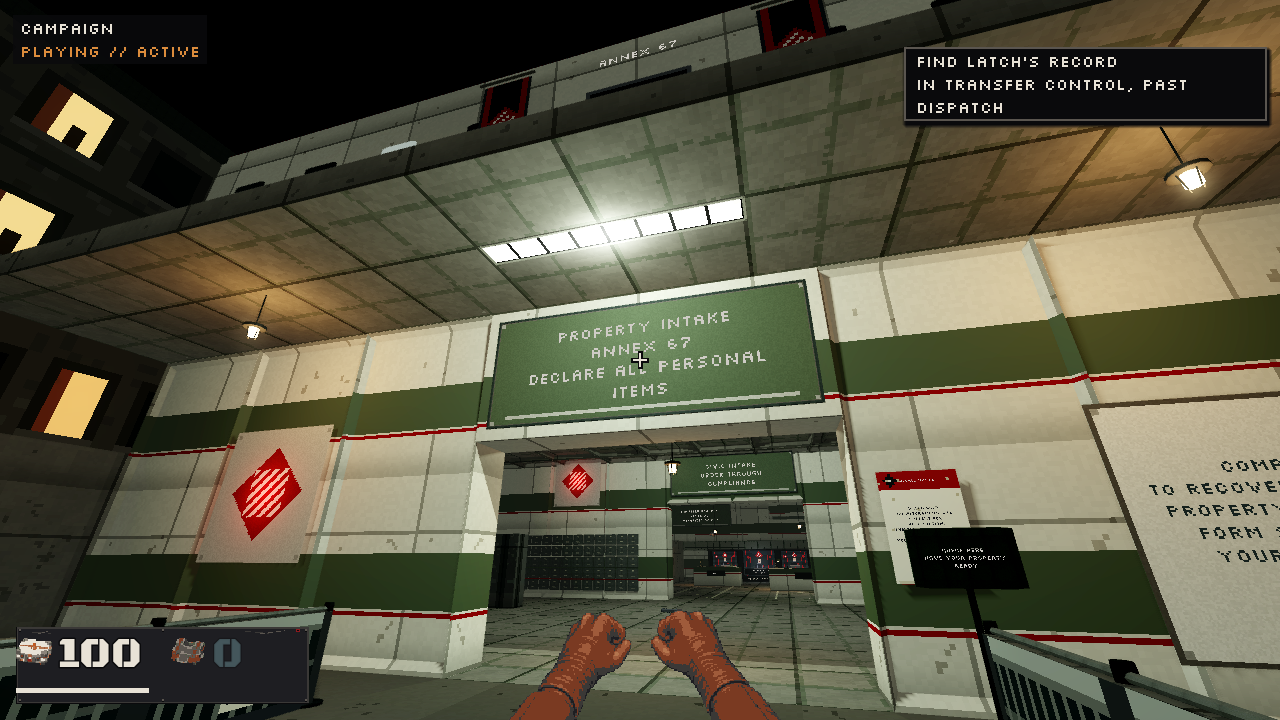
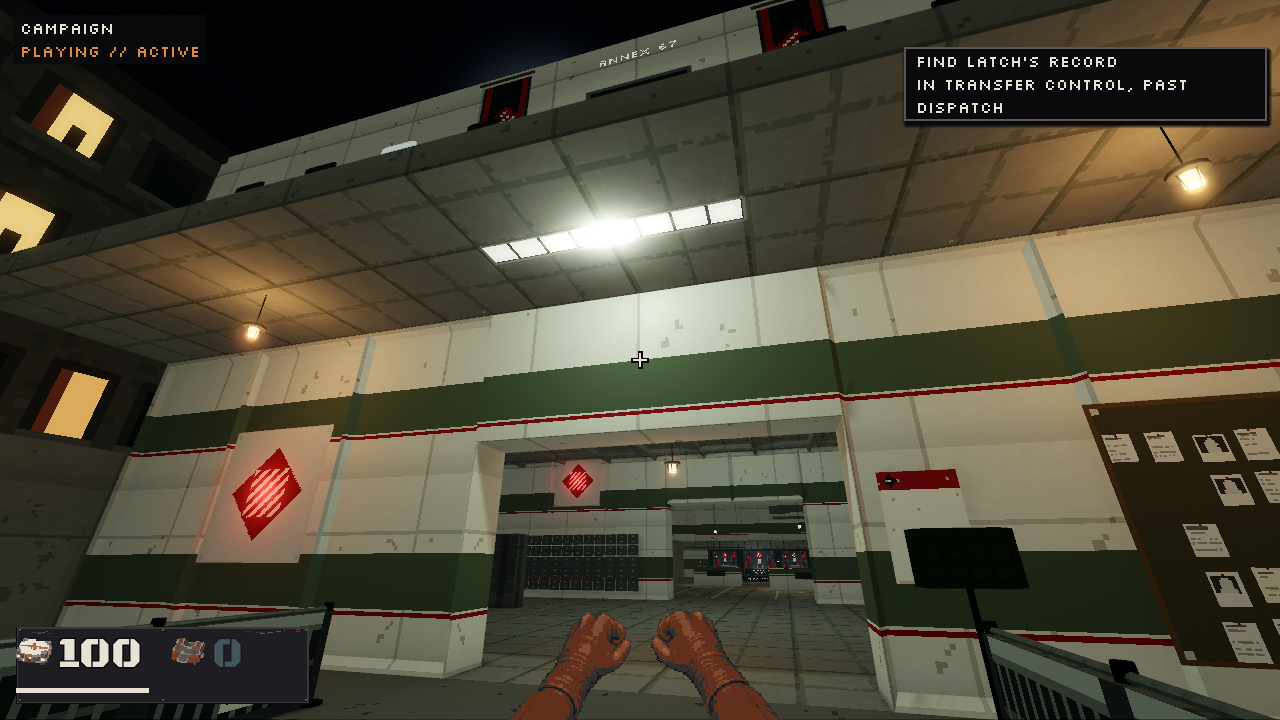
docs: refresh the reduced-signage campaign arrival

diff --git a/docs/screenshots/README.md b/docs/screenshots/README.md
@@ -13,6 +13,18 @@ when its presentation changes; the remaining files stay as dated tour evidence.
 The project tour runs the engine binary. Packaged desktop games use the original
 game icon checked by the release workflow; these stills do not prove taskbar icons.
 
+## October 25, 2026 wave 5 tour
+
+The combined build repeated the full publish tour on Linux/Vulkan, including
+ordinary weapon pickups, both team views and Recall Notice arrival. The
+campaign arrival image now shows the reduced prose and physical wall notices;
+unchanged arena and menu surfaces keep wave 4's inspected images. Separate
+rendered checks covered all twenty campaign sign sheets and Still Here, the
+twelve props in place and in rotation, Planned Works' sixteen review states,
+and distinct 2x and 4x Sniper views. The Look menu's scope control is legible
+without overlapping its neighbouring controls. These are authoring and visual
+checks, not measured novice playthroughs.
+
 ## October 25, 2026 wave 4 tour
 
 The 34 main states, two team states and Recall Notice arrival passed on Linux
